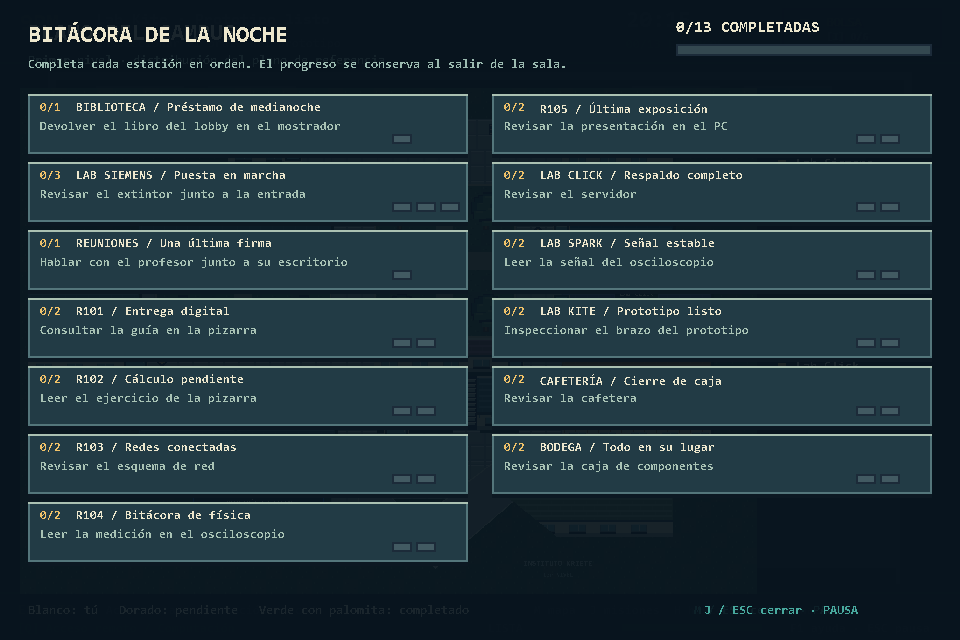
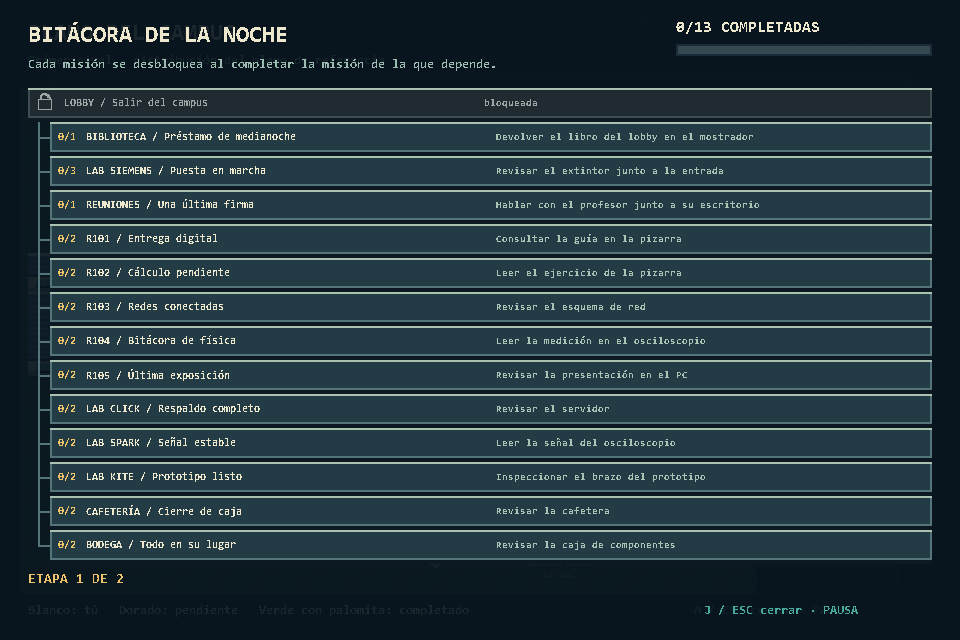
docs(checkpoint3): fix campus graph drawing and add bitácora evidence
The ASCII campus graph now matches the 17 real edges and marks both doors. Adds the cp3_01 capture, its generator line, and the current test output.

Changed region(s): [[0.0312, 0.0938, 0.9688, 0.9062]]

diff --git a/capturar_juego.py b/capturar_juego.py
@@ -51,7 +51,7 @@ for nombre in main.PUERTAS:
     main.dibujar_hud(s,p,fuentes); main.BotonInventario((782,8,160,40)).dibujar(s,0,6,False)
     pygame.image.save(s,out/(nombre+'.png'))
 p._aplicar_salir(); dibujar_mapa(s,p); pygame.image.save(s,out/'mapa.png')
-dibujar_diario(s,p); pygame.image.save(s,out/'bitacora.png')
+dibujar_diario(s,p); pygame.image.save(s,out/'bitacora.png'); pygame.image.save(s,out/'cp3_01_bitacora_arbol.png')
 p.inventario.agregar(main.crear_objeto('libro')); p.inventario.agregar(main.crear_objeto('usb'))
 panel=main.PanelInventario(960,640); panel.alternar(); panel.actualizar(1,(-1,-1)); panel.dibujar(s,p.inventario)
 pygame.image.save(s,out/'inventario.png')

diff --git a/README.md b/README.md
@@ -181,14 +181,26 @@ partida y se excluyen de BFS en ambos sentidos.
 
 ```text
                          terraza_n
-                             |
-oeste_n — terraza — norte — este_c — este_s — sur — lobby_acceso — lobby_frente — lobby
-   |        |                       |       |                         puerta
-   |        |                       |       |
-oeste_m — jardin_o — jardin_c ————┘       oeste_s — aulas_sur
-   |                    |                    |
-aulas_norte           este_c              sur
+                             ‖  (puerta 1)
+           oeste_n ───── terraza ───── norte
+              │                          │
+aulas_norte   │                          │
+     │        │                          │
+  oeste_m ─ jardin_o ─ jardin_c ────── este_c
+     │                                   │
+  oeste_s ─ aulas_sur                  este_s
+     │                                   │
+     └──────────────── sur ──────────────┘
+                        │
+                   lobby_acceso
+                        │
+                   lobby_frente
+                        ‖  (puerta 2)
+                      lobby
 ```
+
+`‖` marca las dos puertas que el diccionario del mundo puede cerrar. Cada `─` o
+`│` es una arista no dirigida; el dibujo tiene las mismas 17 de la lista de abajo.
 
 Conexiones del modelo (los IDs son los del juego):
 
@@ -282,11 +294,28 @@ finales se documentarán aquí junto a las pruebas de integración.
 
 ### Evidencia de ejecución
 
-La evidencia del Checkpoint 3 se agregará después de integrar las ramas de
-grafos, misiones y estado del mundo. Debe incluir capturas de la bitácora en
-árbol, una ruta alternativa, una misión bloqueada y una opción inválida, además
-de la salida de consola de las demos y del conjunto completo de pruebas.
-Las capturas de Checkpoint 2 ya disponibles están en [`docs/capturas/`](docs/capturas).
+**Bitácora en árbol** (`python capturar_juego.py` → `docs/capturas/cp3_01_bitacora_arbol.png`).
+La bitácora recorre las misiones en preorden y dibuja cada una con sangría según
+su nivel y un conector hacia la misión de la que depende. Una misión completada
+sale en verde con palomita, una disponible muestra su paso actual y una bloqueada
+sale en gris con candado e indica qué misión falta primero. Abajo se ven la etapa
+actual (recorrido por niveles) y, cuando las misiones tienen recompensa, la
+recompensa acumulada.
+
+![Bitácora en árbol](docs/capturas/cp3_01_bitacora_arbol.png)
+
+Pruebas (`python -m unittest discover -s tests`) en esta rama:
+
+```text
+Ran 77 tests in 2.607s
+
+OK
+```
+
+Pendiente al integrar las ramas de grafo, misiones y estado del mundo: las
+capturas `cp3_02_ruta_alternativa.png`, `cp3_03_mision_bloqueada.png` y
+`cp3_04_opcion_invalida.png`, y la salida de consola de sus demos.
+Las capturas del Checkpoint 2 están en [`docs/capturas/`](docs/capturas).
 
 ### Aporte de cada integrante (Checkpoint 3)
 
